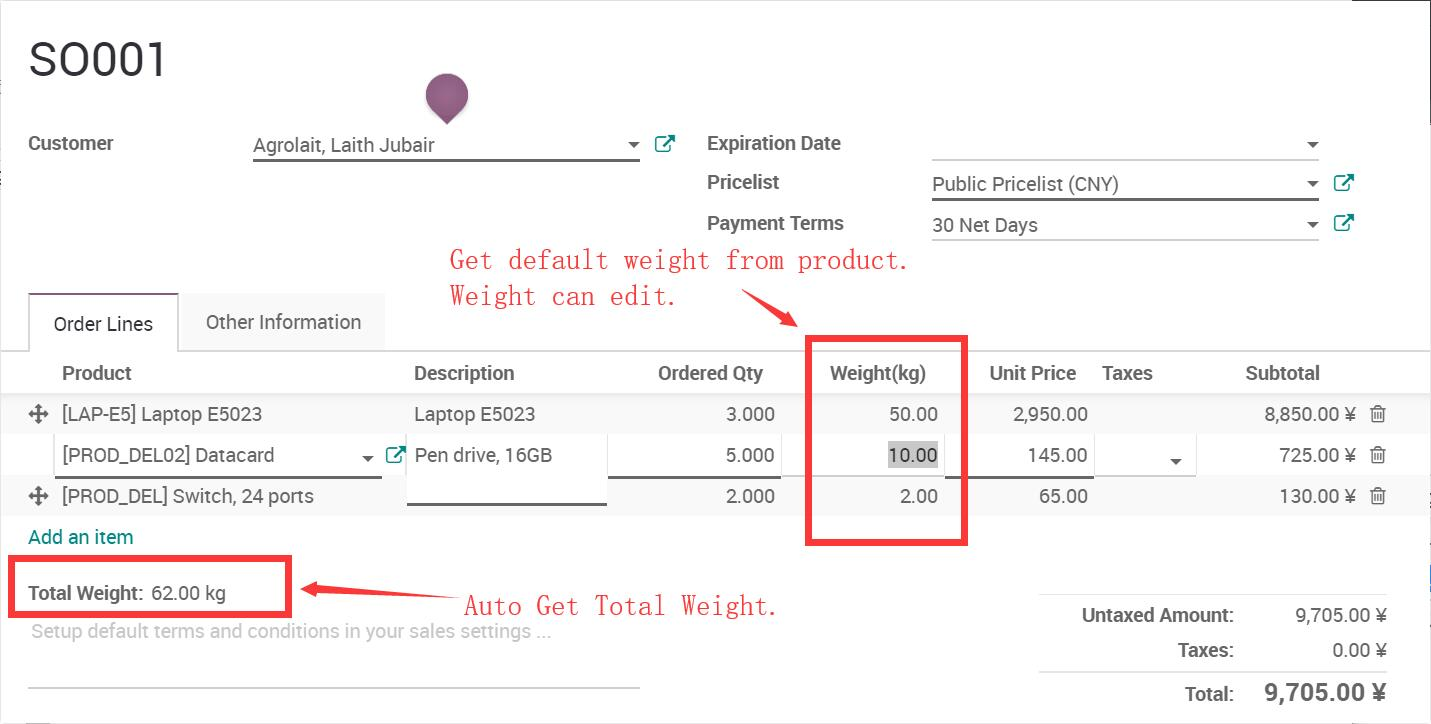
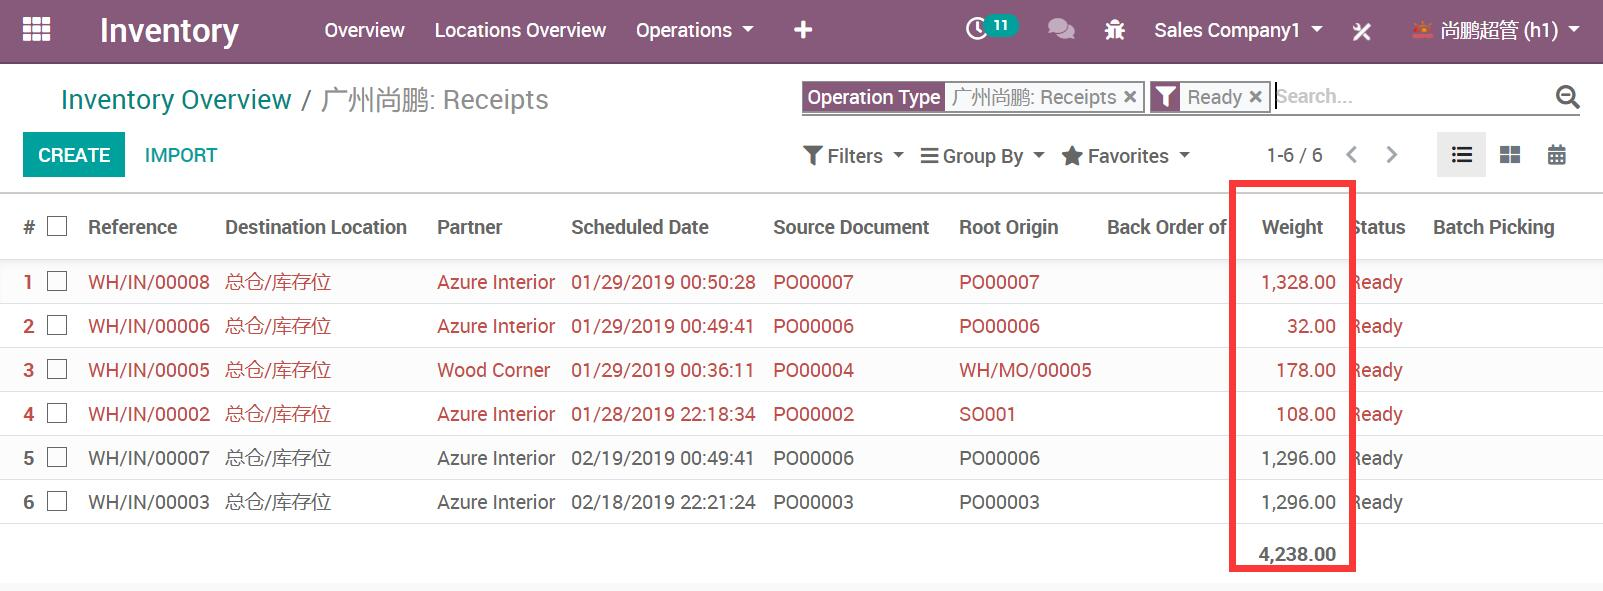
done stock weight

Changed region(s): [[0.0, 0.0, 1.0, 0.9746], [0.8917, 0.6701, 0.9839, 0.7005], [0.5842, 0.8223, 0.6457, 0.8832]]

diff --git a/app_product_weight_sale/static/description/index.html b/app_product_weight_sale/static/description/index.html
@@ -1,8 +1,8 @@
 <section class="oe_container oe_dark">
     <div class="oe_row oe_spaced">
         <div class="oe_span12">
-            <h2 class="oe_slogan">Sales Order Weight</h2>
-            <img class="oe_screenshot oe_picture" src="demo_all.png">
+            <h2 class="oe_slogan">Weight in Stock Inventory Operation Picking and Move</h2>
+            <img class="oe_screenshot oe_picture" src="banner_all.png">
         </div>
 
         <div class="alert alert-info" style="padding:8px;font-weight: 300; font-size: 20px;">
@@ -10,7 +10,7 @@
             <ul class="list-unstyled">
                 <li>
                     <i class="fa fa-check-square-o text-primary"></i>
-                    All in one Weight solution for sale, purchase, purchase agreement, stock. Please check follow <strong>Pay</strong> app.
+                    All in one Weight solution for sale, purchase, purchase agreement, mrp, stock. Please check follow <strong>Pay</strong> app.
                 </li>
                 <li>
                     <i class="fa fa-check-square-o text-primary"></i>
@@ -42,30 +42,40 @@
                 </li>
                 <li>
                     <i class="fa fa-check-square-o text-primary"></i>
-                    Stock picking operation Product weight is ready.
+                    MRP Product weight is ready.
+                    <a href="http://www.odoo.com/apps/modules/12.0/app_product_weight_mrp/" target="_blank">
+                    <i class="fa fa-download text-warning"></i>Click to download.
+                    </a>
+                </li>
+                <li>
+                    <i class="fa fa-check-square-o text-primary"></i>
+                    Stock inventory picking operation Product weight is ready.
                     <a href="http://www.odoo.com/apps/modules/12.0/app_product_weight_stock/" target="_blank">
                     <i class="fa fa-download text-warning"></i>Click to download.
                     </a>
                 </li>
                 <li>
                     <i class="fa fa-check-square-o text-primary"></i>
-                    Add product sku weight in Sale Order line.
+                    Add product sku weight in  Stock Inventory.
                 </li>
                 <li>
                     <i class="fa fa-check-square-o text-primary"></i>
-                    Calculates total weight of a sale order, which is the sum of individual weights of each unit of the products in the order.
+                    Add product sku weight in  Stock picking Operation and stock move.
+                </li>
+                <li>
+                    <i class="fa fa-check-square-o text-primary"></i>
+                    Calculates total weight of a Stock picking.
                 </li>
                 <li>
                     <i class="fa fa-check-square-o text-primary"></i>
                     Support kg(s) or lb(s)
                 </li>
             </ul>
+            <div class="oe_span12">
+                <h2 class="oe_slogan">Multi Language Support</h2>
+                <img class="oe_screenshot oe_picture" src="banner_cn.png">
+            </div>
         </div>
-        <div class="oe_demo oe_screenshot">
-            <img class="oe_screenshot" src="demo.jpg">
-        </div>
-        <p class='oe_mt32'>
-        </p>
         <div class="oe_demo oe_screenshot">
             <h3 class='oe_mt32'>
                 Setup product weight.
@@ -77,23 +87,25 @@
             <h3 class='oe_mt32'>
                 Show product total weight in list view.
             </h3>
-            <img class="oe_screenshot" src="demo2.jpg">
+            <img class="oe_screenshot" src="demo1.jpg">
         </div>
 
         <div class="oe_demo oe_screenshot">
             <h3 class='oe_mt32'>
-                Get product weight and total weight in order.
+                Get product weight and total weight in stock picking.
             </h3>
-            <img class="oe_screenshot" src="demo1.jpg">
+            <img class="oe_screenshot" src="demo.jpg">
         </div>
+
         <p class='oe_span12 oe_mt32'>
             The calculation uses the following formula:
         </p>
-        <p class='oe_mt32'>
-            order_line_net_weight = (line_product_weight / line_product_uom_factor)
-            <br/>
-            weight_total = sum(order_line_net_weight)
-        </p>
+<p class='oe_mt32'>
+order_line_net_weight = (line_product_weight  / line_product_uom_factor)
+<br/>
+weight_total = sum(order_line_net_weight)
+	</p>
+
     </div>
 </section>
 
@@ -126,6 +138,10 @@
         <div class="oe_demo oe_screenshot">
             <img src="demo_purchase.jpg">
         </div>
+        <p>Weight in purchase report</p>
+        <div class="oe_demo oe_screenshot">
+            <img src="demo_purchase2.jpg">
+        </div>
     </div>
 </section>
 
@@ -137,6 +153,16 @@
         </div>
     </div>
 </section>
+
+<section class="oe_container">
+    <div class="oe_row oe_spaced">
+        <h4 class="oe_slogan">Use in MRP Manufacturing</h4>
+        <div class="oe_demo oe_screenshot">
+            <img src="demo_mrp.jpg">
+        </div>
+    </div>
+</section>
+
 <section class="oe_container">
     <div class="oe_row oe_spaced">
         <h4 class="oe_slogan">Use in Stock Picking </h4>

diff --git a/app_product_weight_sale/__manifest__.py b/app_product_weight_sale/__manifest__.py
@@ -8,7 +8,7 @@
     'sequence': 10,
     'license': 'LGPL-3',
     'description': """
-    All in one Weight solution for sale, purchase, purchase agreement, stock. Please check follow <strong>Pay</strong> app.
+    All in one Weight solution for sale, purchase, purchase agreement, mrp, stock.
     Add product sku weight in Sale Order. Unit of measure auto weight, kg kg(s) lb lb(s) support. weight sale order.
     Calculates total weight of a sale order, which is the sum of individual weights of each unit of the products in the order。
     Support kg(s) or lb(s)
